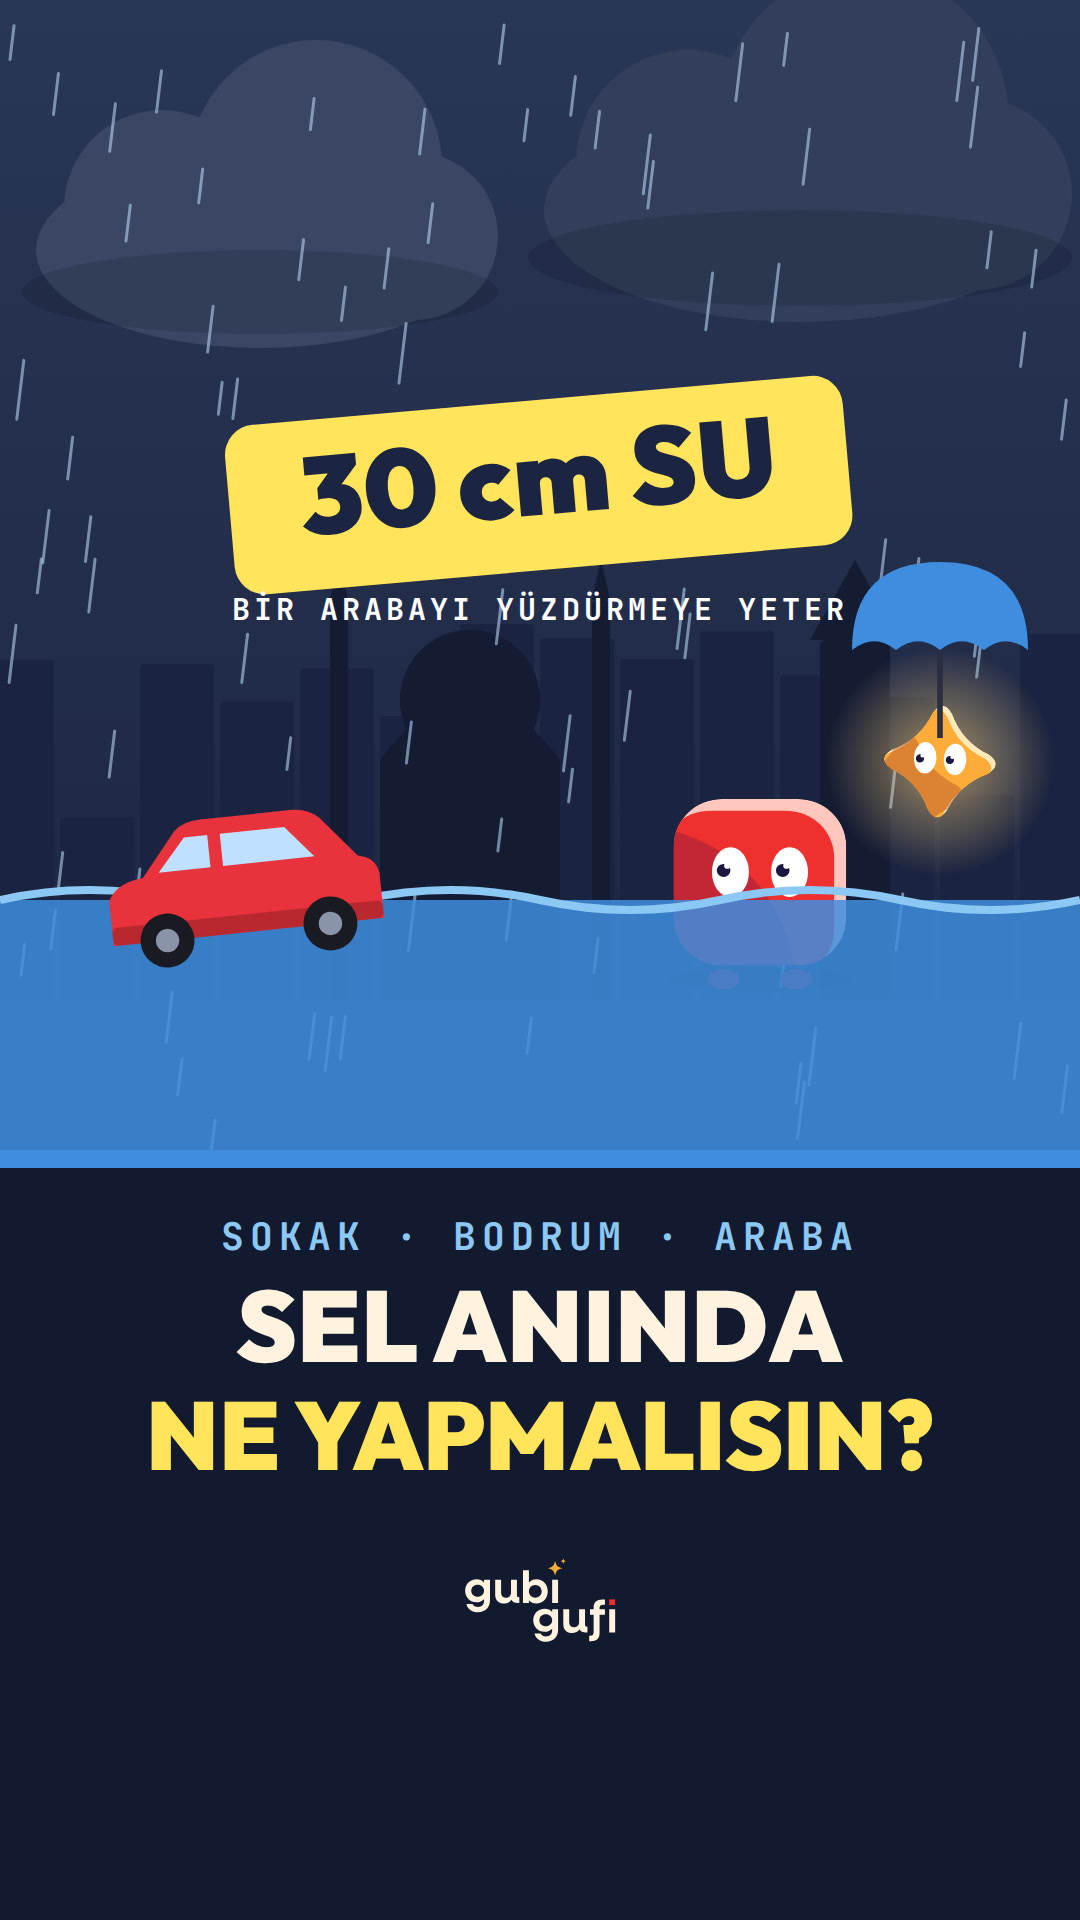
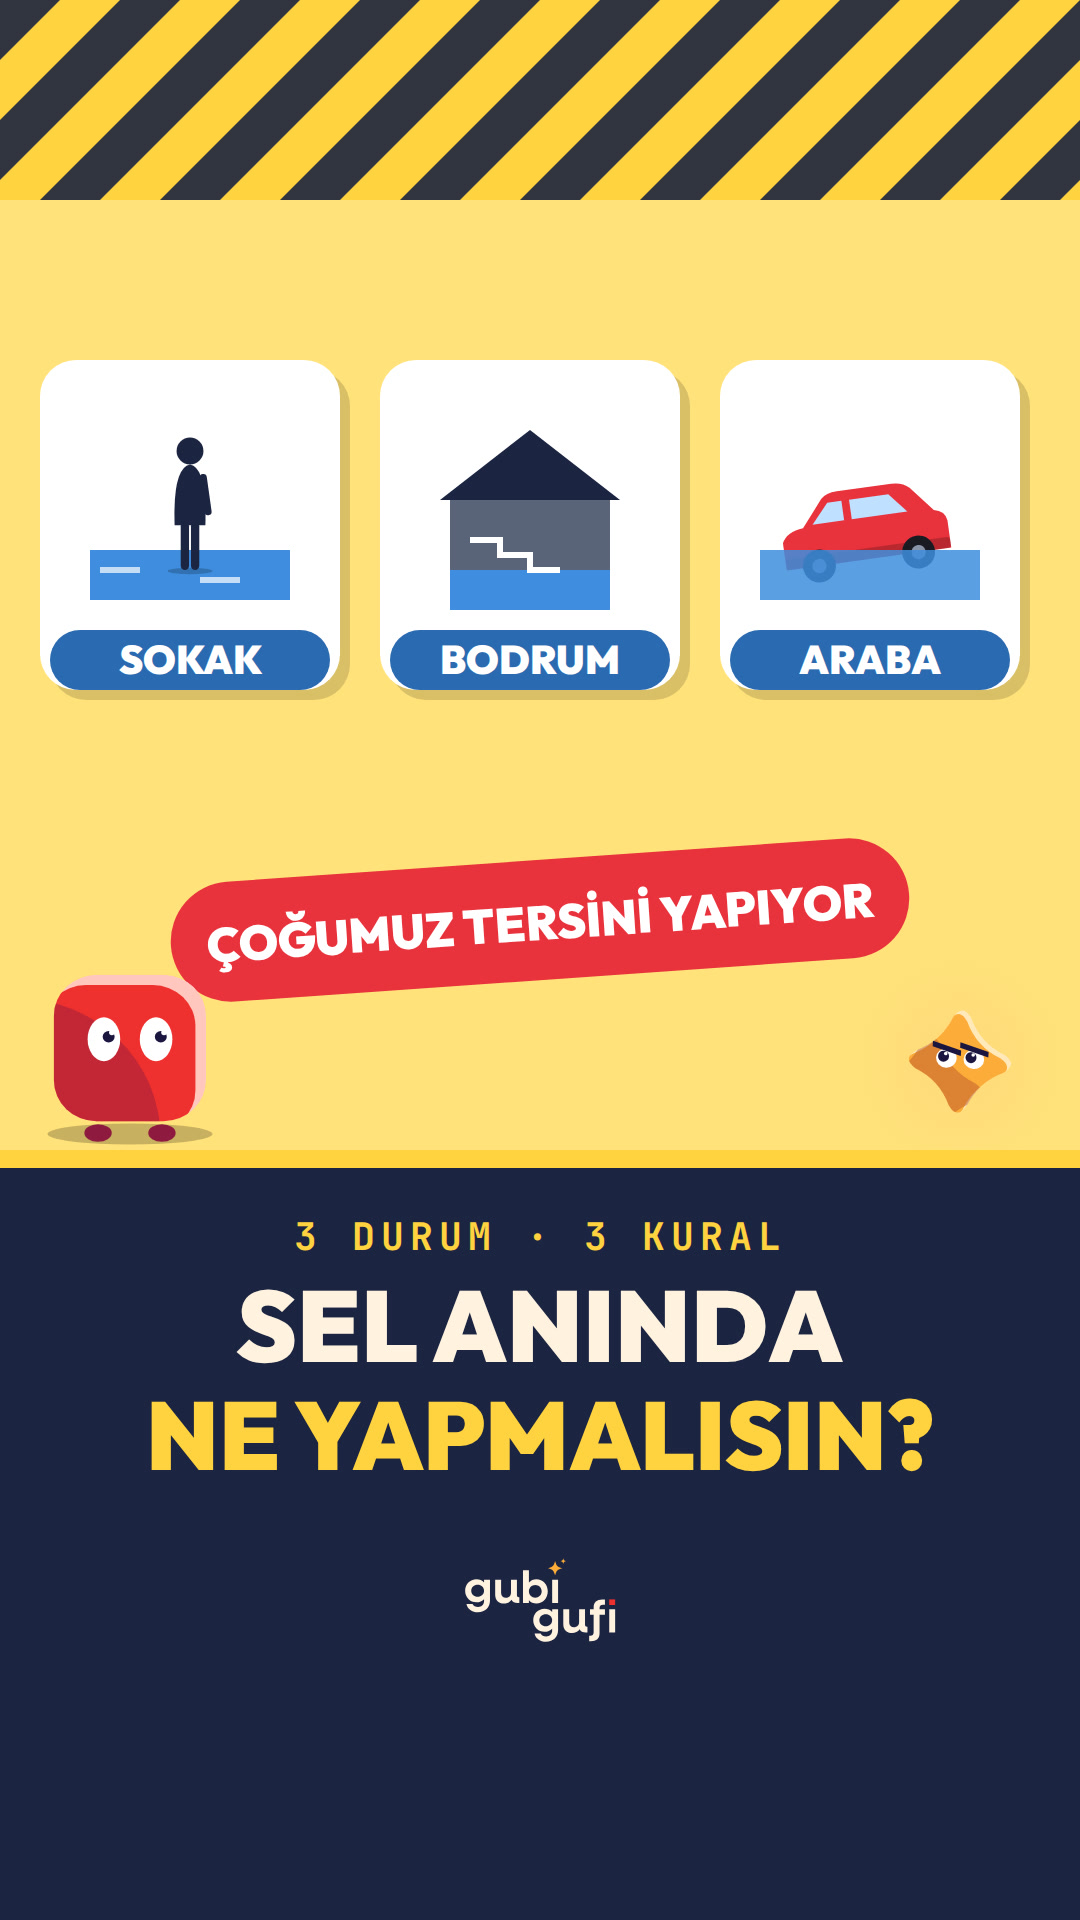
#35 kapak yeniden tasarlandı (sarı uyarı, 3 durum kartı)
Claude-Session: https://claude.ai/code/session_01XpFWe2qV8RD24ed2Fkasje

diff --git a/gubigufi/2026-10-15/35-sel-aninda/kaynak/sahneler/kapak.html b/gubigufi/2026-10-15/35-sel-aninda/kaynak/sahneler/kapak.html
@@ -1,29 +1,26 @@
 <!DOCTYPE html><html lang="tr"><head><meta charset="utf-8">
 <link rel="stylesheet" href="../ortak/stil.css"><link rel="stylesheet" href="../ortak/kanal.css"></head><body>
 <svg viewBox="0 0 1080 1920" width="1080" height="1920" xmlns="http://www.w3.org/2000/svg"><g id="dinamik"></g></svg>
-<script src="../ortak/kit.js"></script><script src="../ortak/maskot.js"></script><script src="../ortak/cevre.js"></script><script src="../ortak/kostum.js"></script><script src="../ortak/kisi.js"></script><script src="../ortak/para.js"></script><script src="../ortak/hk.js"></script><script src="../ortak/au.js"></script><script src="../ortak/sl.js"></script><script src="../ortak/se.js"></script><script src="../ortak/logo_paths.js"></script>
+<script src="../ortak/kit.js"></script><script src="../ortak/maskot.js"></script><script src="../ortak/cevre.js"></script><script src="../ortak/kostum.js"></script><script src="../ortak/kisi.js"></script><script src="../ortak/para.js"></script><script src="../ortak/hk.js"></script><script src="../ortak/au.js"></script><script src="../ortak/kp.js"></script><script src="../ortak/sl.js"></script><script src="../ortak/se.js"></script><script src="../ortak/logo_paths.js"></script>
 <script>
 const R = PR.R, h = HK.hash;
 const txt = (s, x, y, size, renk = '#FFF3E0', w = 900) => `<text x="${x}" y="${y}" font-size="${size}" font-weight="${w}" text-anchor="middle" style="fill:${renk}">${s}</text>`;
 window.renderAt = t => {
-  let o = AU.zemin('#2A3656', '#121A30');
-  o += SL.bulut(260, 250, 1.4, '#3A4664') + SL.bulut(800, 210, 1.6, '#323E5A');
-  // İstanbul silueti: kule + kubbe + minareler + binalar
-  let s = '';
-  for (let i = 0; i < 14; i++) { const x = i * 80 - 20, hh = 160 + h(i) * 220; s += R(x, 1000 - hh, 74, hh, 4, '#1A2440'); }
-  s += `<path d="M380 1000 L380 760 Q470 640 560 760 L560 1000Z" fill="#141C34"/><circle cx="470" cy="700" r="70" fill="#141C34"/>` + R(330, 600, 18, 400, 6, '#141C34') + R(592, 600, 18, 400, 6, '#141C34') + `<path d="M330 600 L339 560 L348 600Z M592 600 L601 560 L610 600Z" fill="#141C34"/>`;
-  s += R(820, 640, 70, 360, 6, '#141C34') + `<path d="M810 640 L855 560 L900 640Z" fill="#141C34"/>`;
-  o += s + SL.yagmur(0, { n: 140, op: .55 });
-  // su seviyesi + yüzen nesneler
-  o += M.canli('gufi', { t: 1, x: 760, y: 975, boy: 170, duygu: 'saskin', bakHedef: [540, 700] });
-  o += R(0, 900, 1080, 250, 0, SL.SU, .85) + `<path d="M0 900 Q90 880 180 900 T360 900 T540 900 T720 900 T900 900 T1080 900" stroke="${SL.SUA}" stroke-width="8" fill="none"/>`;
-  o += SE.araba(250, 950, .9, { rot: -6 });
-  o += M.canli('gubi', { t: 1, x: 940, y: 760, boy: 120, duygu: 'saskin', bakHedef: [540, 700] });
-  o += `<g transform="translate(940 650) scale(.8)"><path d="M-110 0 Q-110 -110 0 -110 Q110 -110 110 0 Q82 -22 55 0 Q27 -22 0 0 Q-27 -22 -55 0 Q-82 -22 -110 0Z" fill="#3E8EDE"/><path d="M0 0 V110" stroke="#2A2E40" stroke-width="7"/></g>`;
-  o += `<g transform="rotate(-5 540 500)"><rect x="230" y="400" width="620" height="170" rx="30" fill="#FFE45C"/>` + txt('30 cm SU', 540, 515, 110, '#1B2440') + `</g>` + `<text class="mono" x="540" y="620" font-size="30" text-anchor="middle" letter-spacing="4" style="fill:#FFFFFF">BİR ARABAYI YÜZDÜRMEYE YETER</text>`;
-  o += `<rect x="0" y="1150" width="1080" height="770" fill="#121A30"/><rect x="0" y="1150" width="1080" height="18" fill="#3E8EDE"/>`;
-  o += `<text class="mono" x="540" y="1250" font-size="38" text-anchor="middle" letter-spacing="6" style="fill:#8CC8F4">SOKAK · BODRUM · ARABA</text>`;
-  o += txt('SEL ANINDA', 540, 1362, 100) + txt('NE YAPMALISIN?', 540, 1470, 96, '#FFE45C');
+  // sarı uyarı zemini + şerit
+  let o = `<rect width="1080" height="1150" fill="#FFD23F"/>`;
+  for (let i = -2; i < 16; i++) o += `<path d="M${i * 120} 0 L${i * 120 + 60} 0 L${i * 120 - 140} 200 L${i * 120 - 200} 200Z" fill="#1B2440" opacity=".9"/>`;
+  o += `<rect x="0" y="200" width="1080" height="950" fill="#FFE27A"/>`;
+  // üç durum: büyük ikon kutuları
+  const kutu = (x, y, ikon, ad, renk) => R(x - 150, y - 150, 300, 330, 36, '#000', .15) + R(x - 160, y - 160, 300, 330, 36, '#FFFFFF') + `<g transform="translate(${x - 10} ${y - 10})">${ikon}</g>` + R(x - 150, y + 110, 280, 60, 30, renk) + txt(ad, x - 10, y + 154, 40, '#FFFFFF');
+  const sokak = `<rect x="-100" y="40" width="200" height="50" fill="#3E8EDE"/>` + KP.yetiskin(0, 60, .32, { renk: '#1B2440' }) + `<path d="M-90 60 l40 0 M10 70 l40 0" stroke="#FFFFFF" stroke-width="6" opacity=".7"/>`;
+  const bodrum = `<path d="M-90 -10 L0 -80 L90 -10Z" fill="#1B2440"/><rect x="-80" y="-10" width="160" height="70" fill="#5A6478"/><rect x="-80" y="60" width="160" height="40" fill="#3E8EDE"/><path d="M-60 30 h30 v15 h30 v15 h30" stroke="#FFFFFF" stroke-width="6" fill="none"/>`;
+  const araba = `<g transform="translate(0 60)">${SE.araba(0, 0, .55, { rot: -8 })}</g><rect x="-110" y="40" width="220" height="50" fill="#3E8EDE" opacity=".85"/>`;
+  o += kutu(200, 520, sokak, 'SOKAK', '#2A6AB0') + kutu(540, 520, bodrum, 'BODRUM', '#2A6AB0') + kutu(880, 520, araba, 'ARABA', '#2A6AB0');
+  o += `<g transform="rotate(-4 540 920)"><rect x="170" y="860" width="740" height="120" rx="60" fill="#E8323C"/>` + txt('ÇOĞUMUZ TERSİNİ YAPIYOR', 540, 940, 48, '#FFFFFF') + `</g>`;
+  o += M.canli('gufi', { t: 1, x: 130, y: 1130, boy: 150, duygu: 'saskin', bakHedef: [540, 520] }) + M.canli('gubi', { t: 1, x: 960, y: 1060, boy: 110, duygu: 'kararli', bakHedef: [540, 520] });
+  o += `<rect x="0" y="1150" width="1080" height="770" fill="#1B2440"/><rect x="0" y="1150" width="1080" height="18" fill="#FFD23F"/>`;
+  o += `<text class="mono" x="540" y="1250" font-size="38" text-anchor="middle" letter-spacing="6" style="fill:#FFD23F">3 DURUM · 3 KURAL</text>`;
+  o += txt('SEL ANINDA', 540, 1362, 100) + txt('NE YAPMALISIN?', 540, 1470, 96, '#FFD23F');
   const S = 150 / 233; let l = `<g transform="translate(540 1600) scale(${S}) translate(-141.5 -141.5)">`;
   for (const p of window.LOGO_PATHS) l += `<path transform="${p.t}" d="${p.d}" fill="${p.fill === '#231f20' ? '#FFF3E0' : p.fill}"/>`;
   document.getElementById('dinamik').innerHTML = o + l + '</g>';
